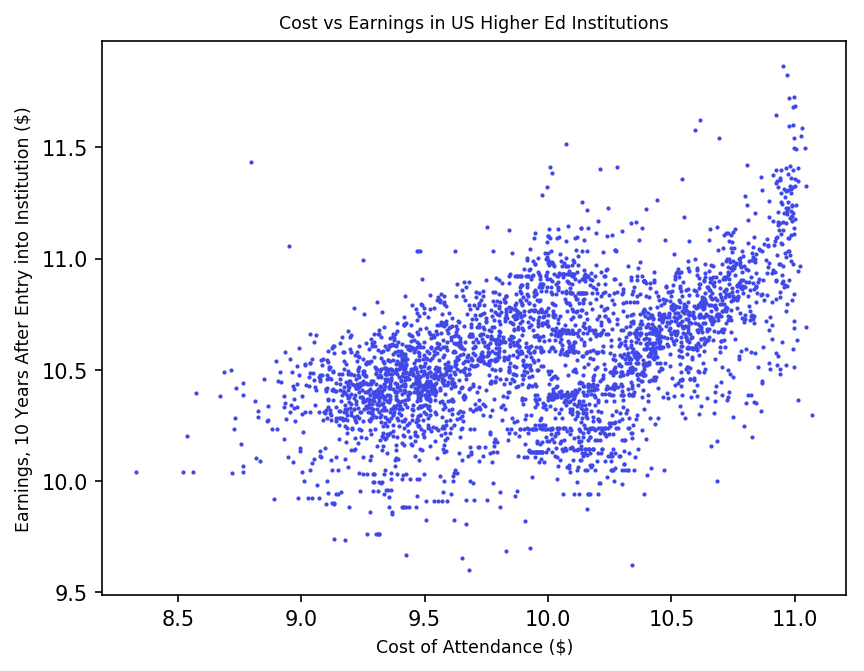
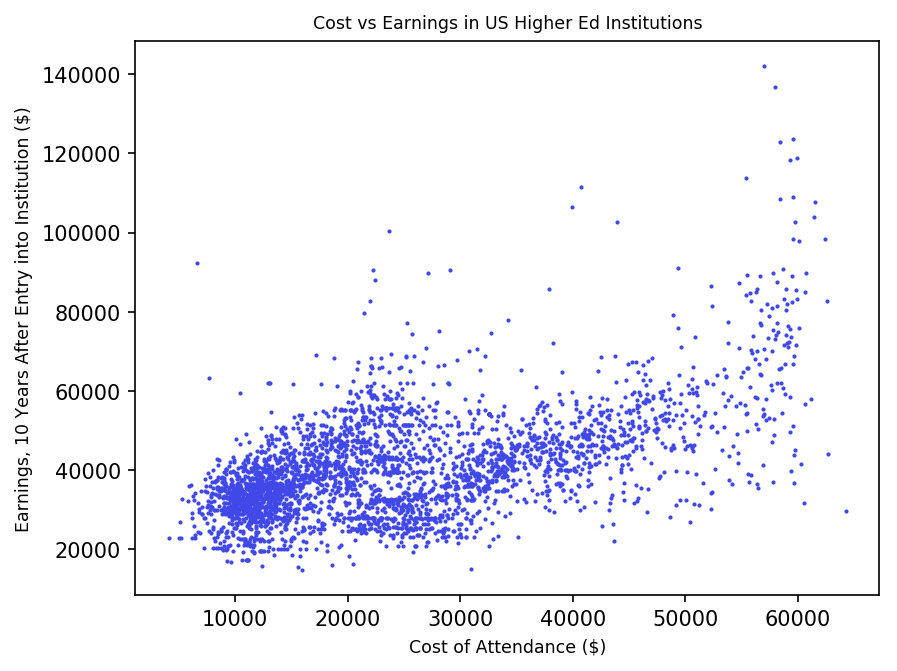
generated specific scatterplots for private, public non profit, and public for profit schools. tweaked function to allow for bool selection of regression line, color grouping

diff --git a/py/clean.py b/py/clean.py
@@ -20,31 +20,41 @@ sc['earningslog'] = sc['earnings'].apply(lambda x:
     math.log(x)
 )
 
-def regressionLine(x):
-    return b0 + (b1 * x)
 
-def makeScatterPlot(explanatory,response,lineBool,xTitle,yTitle,groupBool): #explanatory and response must be Pandas Series
-    model = sm.OLS(sc[explanatory],sc[response],missing='drop')
+
+darkblue='#4148e8'
+lightblue='#6f63f2'
+red='#ec5237'
+green='#43d1cd'
+colors = {1:red,2:lightblue,3:green}
+
+def makeScatterPlot(x,y,lineBool,xTitle,yTitle,groupBool): #explanatory and response must be column names
+    model = sm.OLS(x,y,missing='drop')
     model = model.fit()
     print(model.summary())
 
     r = math.sqrt(model.rsquared)
-    sx = sc[explanatory].std()
-    sy = sc[response].std()
-    xbar = sc[explanatory].mean()
-    ybar = sc[response].mean()
+    sx = x.std()
+    sy = y.std()
+    xbar = x.mean()
+    ybar = y.mean()
     b1 = r * (sy / sx)
     b0 = ybar - (b1 * xbar)
+
+    def regressionLine(x):
+        return b0 + (b1 * x)
+
     if (groupBool):
-        plt.scatter(sc[explanatory],sc[response],1,c=sc['ownership'].apply(lambda x: colors[x]))
+        plt.scatter(x,y,1,c=sc['ownership'].apply(lambda x: colors[x]))
     else:
-        plt.scatter(sc[explanatory],sc[response],1,'#4148e8')
+        plt.scatter(x,y,1,green)
     if (lineBool):
-        plt.plot(sc[explanatory], regressionLine(sc[explanatory]), c='#079799', aa=True)
+        plt.plot(x, regressionLine(x), c='#079799', aa=True)
     plt.xlabel(xTitle, size='smaller')
     plt.ylabel(yTitle, size='smaller')
 
-makeScatterPlot('cost','earnings',False,'Cost of Attendance ($)','Earnings, 10 Years After Entry into Institution ($)',False)
+makeScatterPlot(sc[sc["ownership"] == 3]["costlog"],sc[sc["ownership"] == 3]["earningslog"],True,'Log of Cost of Attendance ($)','Log of Earnings, 10 Years After Entry into Institution ($)',False)
 
-plt.title('Cost vs Earnings in US Higher Ed Institutions', size='smaller')
-plt.savefig('test.png', dpi=150, bbox_inches='tight')
+
+plt.title('Cost vs Earnings in US Higher Ed Institutions (Private For-profit)', size='smaller')
+plt.savefig('privatefp-line.png', dpi=150, bbox_inches='tight')
